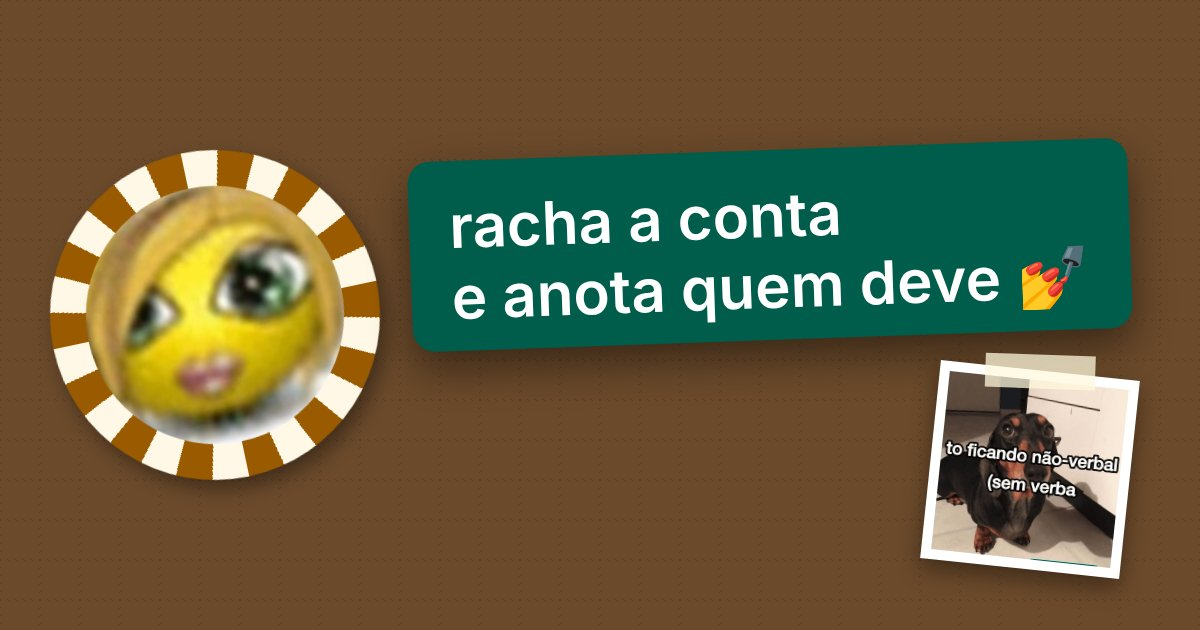
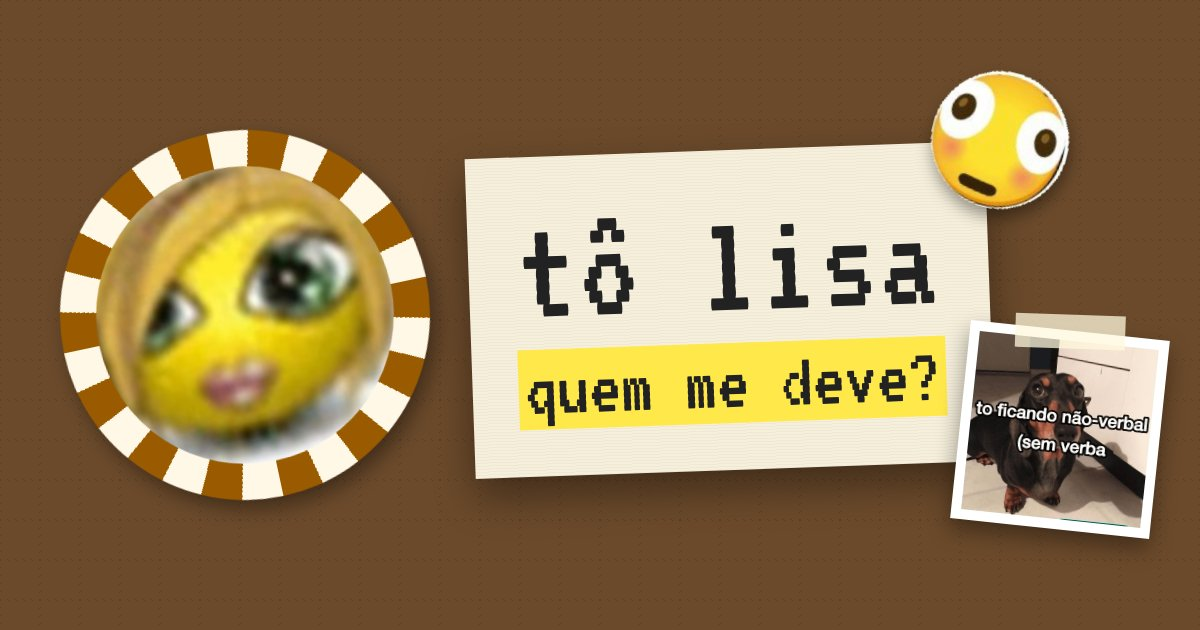
Cobrança no estilo C: "tô lisa / quem me deve?" com o 😳 e a figurinha do evento
Claude-Session: https://claude.ai/code/session_01YTxERD5uG47DzpcJXF9uYP

diff --git a/index.html b/index.html
@@ -27,7 +27,7 @@
 <meta property="og:image:type" content="image/jpeg">
 <meta property="og:image:width" content="1200">
 <meta property="og:image:height" content="630">
-<meta property="og:image:alt" content="Cachorro “to ficando não-verbal (sem verba)” e o texto: racha a conta e anota quem deve">
+<meta property="og:image:alt" content="Cachorro “to ficando não-verbal (sem verba)” e o texto: tô lisa, quem me deve?">
 <meta name="twitter:card" content="summary_large_image">
 <link rel="stylesheet" href="style.css?v=20261006a">
 </head>

diff --git a/c/h/index.html b/c/h/index.html
@@ -16,7 +16,7 @@
 <meta property="og:image:type" content="image/jpeg">
 <meta property="og:image:width" content="1200">
 <meta property="og:image:height" content="630">
-<meta property="og:image:alt" content="Cachorro “to ficando não-verbal (sem verba)” e o texto: racha a conta e anota quem deve">
+<meta property="og:image:alt" content="Cachorro “to ficando não-verbal (sem verba)” e o texto: tô lisa, quem me deve?">
 <meta name="twitter:card" content="summary_large_image">
 <script src="/vai.js"></script>
 </head>

diff --git a/c/i/index.html b/c/i/index.html
@@ -16,7 +16,7 @@
 <meta property="og:image:type" content="image/jpeg">
 <meta property="og:image:width" content="1200">
 <meta property="og:image:height" content="630">
-<meta property="og:image:alt" content="Figurinha “#SEXTOU R$ 0,00” e o texto: racha a conta e anota quem deve">
+<meta property="og:image:alt" content="Figurinha “#SEXTOU R$ 0,00” e o texto: tô lisa, quem me deve?">
 <meta name="twitter:card" content="summary_large_image">
 <script src="/vai.js"></script>
 </head>

diff --git a/c/j/index.html b/c/j/index.html
@@ -16,7 +16,7 @@
 <meta property="og:image:type" content="image/jpeg">
 <meta property="og:image:width" content="1200">
 <meta property="og:image:height" content="630">
-<meta property="og:image:alt" content="Figurinha “crédito” e o texto: racha a conta e anota quem deve">
+<meta property="og:image:alt" content="Figurinha “crédito” e o texto: tô lisa, quem me deve?">
 <meta name="twitter:card" content="summary_large_image">
 <script src="/vai.js"></script>
 </head>
